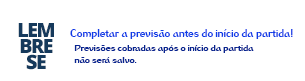
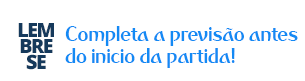
portuguese additions

Changed region(s): [[0.2066, 0.321, 0.9738, 0.8395]]

diff --git a/application/config/words.php b/application/config/words.php
@@ -6,14 +6,14 @@ $words['Pronosticos']['MX'] = "PRONÓSTICOS";
 $words['Pronosticos']['PR'] = "PREVISÕES";
 $words['Pronosticos']['US'] = "PREDICTIONS";
 
-$words['Posiciones']['AR'] = "Posiciones";
-$words['Posiciones']['MX'] = "Posiciones";
-$words['Posiciones']['PR'] = "Tabela";
-$words['Posiciones']['US'] = "Ranking";
+$words['Posiciones']['AR'] = "POSICIONES";
+$words['Posiciones']['MX'] = "POSICIONES";
+$words['Posiciones']['PR'] = "POSIÇÕES";
+$words['Posiciones']['US'] = "RANKING";
 
 $words['Muro']['AR'] = "Muro";
 $words['Muro']['MX'] = "Muro";
-$words['Muro']['PR'] = "Muro";
+$words['Muro']['PR'] = "Postagens";
 $words['Muro']['US'] = "Wall";
 
 $words['Cómo jugar']['AR'] = "Cómo jugar";
@@ -39,12 +39,12 @@ $words['Salir']['US'] = "Log out";
 $words['leave-comment']['AR'] = "Dejá tu comentario...";
 $words['leave-comment']['MX'] = "Deja tu comentario...";
 $words['leave-comment']['PR'] = "Deixe seu comentário...";
-$words['leave-comment']['US'] = "Comment";
+$words['leave-comment']['US'] = "Add a comment...";
 
-$words['first-comment']['AR'] = "Sé el primero en comentar.";
-$words['first-comment']['MX'] = "Sé el primero en comentar.";
-$words['first-comment']['PR'] = "Seja o primeiro a comentar.";
-$words['first-comment']['US'] = "Be the first to comment.";
+$words['first-comment']['AR'] = "Sé el primero en comentar!";
+$words['first-comment']['MX'] = "Sé el primero en comentar!";
+$words['first-comment']['PR'] = "Seja o primeiro a comentar!";
+$words['first-comment']['US'] = "Be the first to comment!";
 
 $words['select-country']['AR'] = "Selecciona el País";
 $words['select-country']['MX'] = "Selecciona el País";
@@ -58,7 +58,7 @@ $words['Guardado']['US'] = "Saved";
 
 $words['editar']['AR'] = "editar";
 $words['editar']['MX'] = "editar";
-$words['editar']['PR'] = "editar";
+$words['editar']['PR'] = "edite";
 $words['editar']['US'] = "edit";
 
 $words['y']['AR'] = "y";
@@ -723,60 +723,10 @@ $words['politica-privacidad']['MX'] = "Aviso de privacidad";
 $words['politica-privacidad']['PR'] = "Política de Privacidade";
 $words['politica-privacidad']['US'] = "Privacy Policy";
 
-$words['qualy-no-refund']['AR'] = "Muro";
-$words['qualy-no-refund']['MX'] = "Muro";
-$words['qualy-no-refund']['PR'] = "Muro";
-$words['qualy-no-refund']['US'] = "Wall";
-
-$words['Muro']['AR'] = "&iexcl;No se pueden modificar los preclasificados! La fecha límite era hasta el $1";
-$words['Muro']['MX'] = "&iexcl;No puedes modificar los preclasificados! La fecha límite era hasta el $1";
-$words['Muro']['PR'] = "&iexcl;No puedes modificar los preclasificados! La fecha límite era hasta el $1";
-$words['Muro']['US'] = "&iexcl;You can't modify prequalyfied teams! Due date was $1";
-
-$words['choose-all-qualys']['AR'] = "Tenés que completar los 16 preclasificados.";
-$words['choose-all-qualys']['MX'] = "Debes completar los 16 preclasificados.";
-$words['choose-all-qualys']['PR'] = "Você deve selecionar os 16 pré-classificados.";
-$words['choose-all-qualys']['US'] = "You must complete the 16 pre-qualyfied teams.";
-
-$words['qualys-no-repeat']['AR'] = "No podés elegir el mismo equipo como 1°er y 2°do clasificado.";
-$words['qualys-no-repeat']['MX'] = "No puedes elegir el mismo equipo como 1°er y 2°do clasificado.";
-$words['qualys-no-repeat']['PR'] = "Você não pode selecionar a mesma equipe como 1o e 2o classificado.";
-$words['qualys-no-repeat']['US'] = "You can't choose the same team as 1st and 2nd pre-qualyfied.";
-
-$words['qualy-success']['AR'] = "Tu pronóstico de preclasificados fue guardado con éxito.";
-$words['qualy-success']['MX'] = "Tu pronóstico de preclasificados fue guardado con éxito.";
-$words['qualy-success']['PR'] = "Os seus palpites de pré-classificados foram guardados com sucesso. Boa sorte!";
-$words['qualy-success']['US'] = "Your pre-qualyfied predictions were saved successfully.";
-
 $words['Equipo']['AR'] = "Equipo";
 $words['Equipo']['MX'] = "Equipo";
 $words['Equipo']['PR'] = "Equipe";
 $words['Equipo']['US'] = "Team";
-
-$words['winners-no-refund']['AR'] = "&iexcl;No se pueden modificar los ganadores! La fecha límite era hasta el $1";
-$words['winners-no-refund']['MX'] = "&iexcl;No se pueden modificar los ganadores! La fecha límite era hasta el $1";
-$words['winners-no-refund']['PR'] = "&iexcl;No se pueden modificar los ganadores! La fecha límite era hasta el $1";
-$words['winners-no-refund']['US'] = "&iexcl;You can't modify the winners! Due date was $1";
-
-$words['winners-all-three']['AR'] = "Tenés que completar los 3 ganadores.";
-$words['winners-all-three']['MX'] = "Debes completar los 3 ganadores.";
-$words['winners-all-three']['PR'] = "Você deve selecionar as 3 seleções ganhadoras.";
-$words['winners-all-three']['US'] = "You must choose all 3 winners.";
-
-$words['winners-diff']['AR'] = "Tenés que elegir a 3 equipos diferentes.";
-$words['winners-diff']['MX'] = "Debes elegir 3 equipos diferentes.";
-$words['winners-diff']['PR'] = "Você deve selecionar 3 seleções diferentes para cada posição.";
-$words['winners-diff']['US'] = "You must select 3 different teams.";
-
-$words['winners-error']['AR'] = "Hubo un error. Por favor volvé a elegir a los equipos.";
-$words['winners-error']['MX'] = "Hubo un error. Por favor vuelve a elegir a los equipos.";
-$words['winners-error']['PR'] = "Hubo un error. Por favor vuelve a elegir a los equipos.";
-$words['winners-error']['US'] = "Error: please select teams again.";
-
-$words['winners-save-ok']['AR'] = "Tu pronóstico de ganadores fue guardado con éxito.";
-$words['winners-save-ok']['MX'] = "Tu pronóstico de ganadores fue guardado con éxito.";
-$words['winners-save-ok']['PR'] = "Seu palpite dos ganhadores do torneio foi salvo com sucesso. Boa sorte!";
-$words['winners-save-ok']['US'] = "Your winners predictions were saved successfully.";
 
 $words['Resultados Adivinados']['AR'] = "Resultados Adivinados";
 $words['Resultados Adivinados']['MX'] = "Resultados Adivinados";
@@ -788,10 +738,10 @@ $words['Resultados Exactos Adivinados']['MX'] = "Resultados Exactos Adivinados";
 $words['Resultados Exactos Adivinados']['PR'] = "Resultados Exatos Certos";
 $words['Resultados Exactos Adivinados']['US'] = "Resultados Exactos Adivinados";
 
-$words['wall-share-happiness']['AR'] = "&iexcl;Compartí la experiencia Fantasy Futbol con tus compañeros!";
-$words['wall-share-happiness']['MX'] = "&iexcl;Comparte la experiencia Fantasy Futbol con tus compañeros!";
-$words['wall-share-happiness']['PR'] = "&iexcl;Compartilhe a experiência Fantasy Futebol com seus colegas!";
-$words['wall-share-happiness']['US'] = "&iexcl;Share the Fantasy Futbol experience with your coleagues!";
+$words['wall-share-happiness']['AR'] = "&iexcl;Compartí la experiencia Prode con tus compañeros!";
+$words['wall-share-happiness']['MX'] = "&iexcl;Comparte la experiencia Prode con tus compañeros!";
+$words['wall-share-happiness']['PR'] = "&iexcl;Compartilhe a experiência Prode com seus colegas!";
+$words['wall-share-happiness']['US'] = "&iexcl;Share the Prode experience with your coleagues!";
 
 $words['share-comment']['AR'] = "&iquest;ganaste el partido pasado? Compartí tu alegría acá.";
 $words['share-comment']['MX'] = "&iquest;Cuantos puntos has sumado? Comparte tu alegría aquí.";
